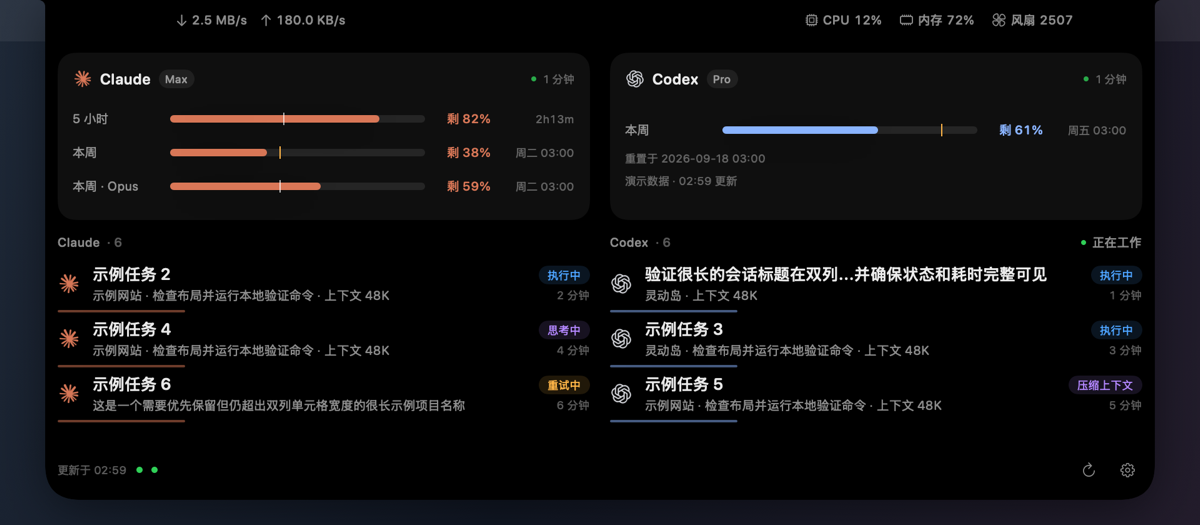
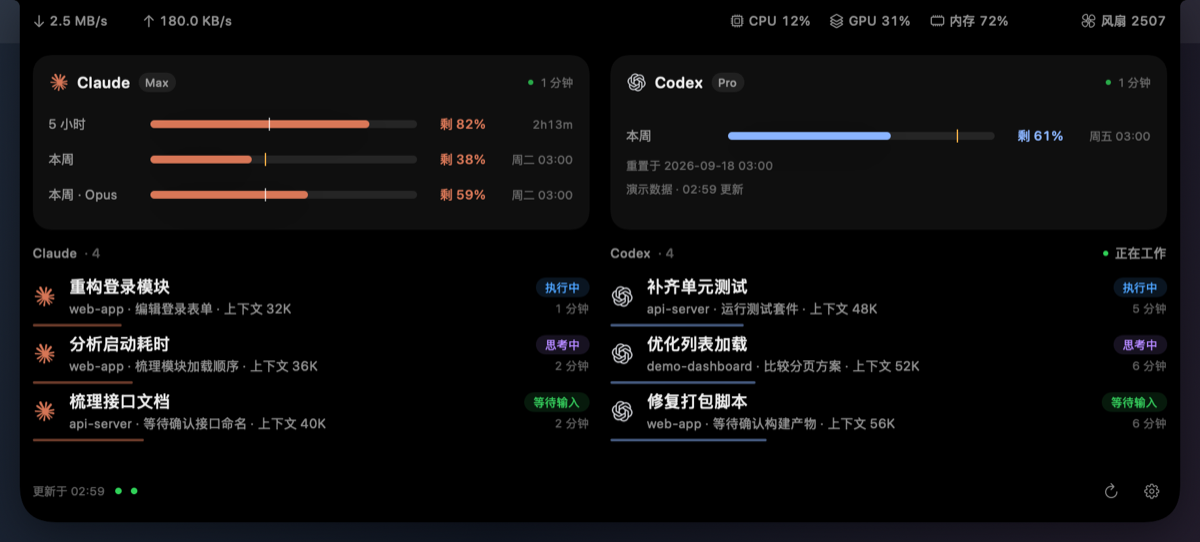
v0.2.0：版本号、README 与演示截图更新
- 版本号 0.2.0（构建号 2）
- README（中/英）补充：GPU 显示与顶部指标带排版；数据源自动检测与开关；
  只开一家与系统监控模式；第三方模型后端识别；Claude Code / Codex 改为可选
- 数据与隐私补充：GPU 只读读取、检测只检查目录是否存在、第三方判定仅保存模型名、
  自定义命令的存储与网络说明
- 新增 README 专用快照场景 readme-expanded、readme-custom（虚构数据）；
  更新 expanded.png，新增 custom-sources.png
- 截图说明不再引用未随仓库发布的工具路径

diff --git a/Sources/AgentIsland/App/SnapshotExporter.swift b/Sources/AgentIsland/App/SnapshotExporter.swift
@@ -111,6 +111,7 @@ import IslandCore
                 }
             }
         }
+        for name in readmeScenarios { cases.append((name, .idle, .expanded, true)) }
         var files: [String: Data] = [:]
         for (name, scenario, mode, hasNotch) in cases {
             let store = IslandStore.mock(scenario, now: now)
@@ -132,6 +133,7 @@ import IslandCore
                 }
             }
             if name.hasPrefix("custom-") { configureCustomSources(store, scenario: name) }
+            if readmeScenarios.contains(name) { configureReadme(store, scenario: name) }
             switch name {
             case "expanded-system-cpu-warning", "no-notch-system-cpu-warning":
                 store.systemMetrics.cpu = .init(percent: 85, sampleIntervalMs: 1000)
@@ -362,6 +364,58 @@ import IslandCore
         }
         guard let data else { throw ExportError.renderFailed("settings") }
         return data
+    }
+
+    static let readmeScenarios = ["readme-expanded", "readme-custom"]
+
+    /// README-only fixtures: no services, settings, commands, or host data are accessed here.
+    static func configureReadme(_ store: IslandStore, scenario: String) {
+        guard readmeScenarios.contains(scenario) else { return }
+        store.sessionListLayout = .automatic
+        store.systemMetrics = SystemMetrics(
+            network: .init(downBytesPerSec: 2.5 * 1024 * 1024, upBytesPerSec: 180 * 1024, interfaces: ["en0"]),
+            fan: .init(fans: [.init(index: 0, rpm: 2507, minRPM: 2317, maxRPM: 6550)]),
+            memory: .init(usedBytes: 72 * 1024, totalBytes: 100 * 1024),
+            cpu: .init(percent: 12, sampleIntervalMs: 1000), gpu: .init(percent: 31))
+        if scenario == "readme-custom" {
+            // Commands are inert metadata; both quota snapshots are assigned directly in memory.
+            let balance = CustomSource(id: .init(rawValue: "custom-readme-balance"), name: "API 余额",
+                                       command: "echo 62", colorIndex: 1)
+            let team = CustomSource(id: .init(rawValue: "custom-readme-team"), name: "团队额度",
+                                    command: "echo 62", colorIndex: 2)
+            store.customSources = [balance, team]
+            store.quotas[balance.id] = .init(agent: balance.id, windows: [
+                .init(id: "balance", kind: .other, label: "余额", usedPercent: 0, valueText: "¥128.50")
+            ], source: .customCommand, fetchedAt: now.addingTimeInterval(-60))
+            store.quotas[team.id] = .init(agent: team.id, plan: "Team", windows: [
+                .init(id: "monthly", kind: .other, label: "本月", usedPercent: 38, periodSeconds: 2_592_000)
+            ], source: .customCommand, fetchedAt: now.addingTimeInterval(-60))
+            store.health[balance.id] = .ok
+            store.health[team.id] = .ok
+        } else {
+            // Eight non-ended sessions select the automatic 900 pt layout on the synthetic notch display.
+            // Each column's first three rows cover running, thinking, and waiting for input.
+            let examples: [(ProviderID, String, String, SessionPhase, String)] = [
+                (.claude, "重构登录模块", "web-app", .runningTool, "编辑登录表单"),
+                (.claude, "分析启动耗时", "web-app", .thinking, "梳理模块加载顺序"),
+                (.claude, "梳理接口文档", "api-server", .waitingInput, "等待确认接口命名"),
+                (.claude, "检查表单校验", "demo-dashboard", .waitingInput, "等待确认校验提示"),
+                (.codex, "补齐单元测试", "api-server", .runningTool, "运行测试套件"),
+                (.codex, "优化列表加载", "demo-dashboard", .thinking, "比较分页方案"),
+                (.codex, "修复打包脚本", "web-app", .waitingInput, "等待确认构建产物"),
+                (.codex, "整理帮助页面", "docs-site", .waitingInput, "等待确认页面目录")
+            ]
+            store.sessions = examples.enumerated().map { index, example in
+                let (agent, title, project, phase, activity) = example
+                return AgentSession(agent: agent, sessionId: "readme-\(index)", title: title,
+                                    projectName: project, phase: phase, activity: activity,
+                                    context: .init(usedTokens: 32_000 + index * 4_000, windowTokens: 200_000),
+                                    turnStartedAt: now.addingTimeInterval(-Double((index + 1) * 60)),
+                                    turnEndedAt: phase == .waitingInput ? now.addingTimeInterval(-30) : nil,
+                                    toolCallsThisTurn: index + 2, lastActivityAt: now.addingTimeInterval(-Double(index * 10)),
+                                    isAlive: true)
+            }
+        }
     }
 
     static func configureCustomSources(_ store: IslandStore, scenario: String) {

diff --git a/README.en.md b/README.en.md
@@ -9,7 +9,7 @@ See remaining quota at a glance. Working sessions get rotating icons and activit
 All screenshots use built-in mock data, including plans, usage, sessions and system metrics.
 Dates use a fixed example timestamp displayed in UTC. EXIF/XMP and other ancillary metadata have been removed.
 
-**Collapsed** — Claude on the left, Codex on the right.
+**Collapsed** — with both sources enabled, Claude on the left and Codex on the right.
 
 ![Collapsed](docs/images/collapsed.png)
 
@@ -17,9 +17,18 @@ Dates use a fixed example timestamp displayed in UTC. EXIF/XMP and other ancilla
 
 ![Active](docs/images/active.png)
 
-**Expanded** — system metrics, two quota cards, and sessions grouped by agent in two columns: Claude on the left, Codex on the right.
+**Expanded** — network, CPU, GPU, memory and fan metrics beside the notch, above two quota cards. Eight fictional sessions automatically form agent columns: Claude on the left, Codex on the right, with running, thinking and waiting-for-input states.
 
 ![Expanded](docs/images/expanded.png)
+
+## Features
+
+- View remaining quota and reset times, working-session indicators, current actions and context usage. Hover or click to expand; completed sessions never open the panel automatically.
+- Expanded system metrics include network, CPU, memory, and GPU usage and fan speed where available. The top band uses the full available wings beside a notch, aligned with the cards; without a notch, metrics are evenly distributed across one row. Narrow layouts simplify automatically.
+- Enable sources independently. Automatic detection shows Claude Code / Codex by default once used, based on their data directories; settings also allow manual overrides.
+- With one source enabled, both collapsed wings prioritize its different quota periods; when fewer than two windows are available, the other wing shows CPU. With neither provider nor custom sources, use system monitor mode: CPU and memory in the collapsed wings.
+- Claude Code with a third-party backend such as GLM or Kimi shows sessions only, without official quota or login prompts, when Claude credentials are absent and the last observed model name does not start with `claude-`.
+- Connect other tools' quotas or balances through [custom data sources](#custom-data-sources).
 
 Sessions are sorted by status: running tools first, then thinking (including compacting and retrying), followed by waiting for permission, waiting for input, error, idle, and ended. Within each priority tier, sessions from the same project stay together, with project groups ordered by their latest activity and unnamed projects last. Sessions within each group use newest activity first. Each agent is sorted independently in two-column mode; single-column mode sorts the merged list.
 
@@ -29,26 +38,38 @@ Settings → Session list → Layout (设置 → 会话列表 → 布局) defaul
 
 - macOS 14 or later, Apple Silicon or Intel.
 - Best on a MacBook with a notch; other displays use a capsule at the top.
-- Install and sign in to Claude Code / Codex to see the corresponding data.
+- Claude Code and Codex are optional. Install and use a provider to get its data; official quotas require signing in. Without either, the app works as a system monitor. Connect other tools through [custom data sources](#custom-data-sources).
 - Swift 6 and Command Line Tools to build. No Xcode or third-party dependencies required.
 
 ## Privacy
 
-**No data collection, telemetry or session-content uploads.** Local session files are read to display information on your Mac:
+**No data collection, telemetry or session-content uploads.** Local session files are read for enabled built-in providers to display information on your Mac:
 
 - Claude session metadata, main-session transcripts and desktop session titles.
 - Codex's SQLite session index (read-only) and rollout logs as a fallback.
 - Claude OAuth credentials, read at runtime through the system keychain, with `~/.claude/.credentials.json` as a compatibility fallback. Tokens stay in memory and are never logged or exported. AgentIsland does not read Claude session key files or `~/.codex/auth.json`.
 
-AgentIsland's own HTTP client only contacts the Claude usage endpoint at `api.anthropic.com`; it does not follow redirects or retain HTTP caches or cookies. Codex quota comes from the official `codex app-server` subprocess. Official subprocesses may contact their own services, including during Claude token renewal described below.
+Automatic detection of built-in sources only checks whether `~/.claude` and `~/.codex` directories exist, not whether a CLI or desktop app is installed. Third-party backend detection separately checks for the presence of Claude credentials without reading their contents and uses the last observed model name. Only that model name, not the session content used to identify it, is saved in AgentIsland's own UserDefaults.
+
+GPU usage is read through IOKit from IOAccelerator system statistics, without administrator privileges or extra permissions. The metric is hidden when the device provides no reading.
+
+For official Claude quotas, a web or desktop login may not grant Claude Code OAuth access; run `claude auth login` in Terminal. Once a third-party backend is detected, AgentIsland skips official Claude quota queries and their renewal flow.
+
+AgentIsland's own HTTP client only contacts the Claude usage endpoint at `api.anthropic.com`; it does not follow redirects or retain HTTP caches or cookies. Codex quota comes from the official `codex app-server` subprocess. Official subprocesses may contact their own services, including during Claude token renewal described below. Custom commands may also access the network according to your script; the HTTP restriction does not apply to the entire subprocess tree.
 
 AgentIsland itself reads provider data and settings without modifying them, installing hooks or changing statusLine. Its settings and connection diagnostics remain in its own local storage. Official CLI renewal may update official credentials. Diagnostic exports such as `--dump sessions` contain titles and project paths; redact them before sharing.
+
+Custom commands are stored in plain text in app settings; output and parsed results stay in memory. Custom entries in `--dump providers` exclude commands and output; `--dump quota` runs enabled custom sources and exports parsed quotas. See the next section for details.
 
 Brand icons are loaded from locally installed Claude / ChatGPT apps, with drawn fallbacks. Third-party icon files are not bundled or distributed as standalone assets; screenshots illustrate the interface.
 
 ## Custom data sources
 
 Open Settings → Custom data sources (自定义数据源) → Add (添加), enter a name and command, choose a 1 / 5 / 15 / 30 minute interval (default: 5), and use Test run (测试运行) before saving. This feature requires scripting knowledge; no additional services are built in. Optionally choose a local `.app` icon and badge color. Enable, edit, delete, or reorder providers with ↑ / ↓. The collapsed wings show the first two enabled quota providers; expanded quota cards use two columns.
+
+This mock-data example shows Claude, Codex, “API 余额” (API balance) and “团队额度” (team quota) in a 2×2 grid, demonstrating a text balance and a monthly remaining percentage.
+
+![Custom data sources](docs/images/custom-sources.png)
 
 Commands run as the current user via `/bin/zsh -lc`, with the user home directory as the working directory. The login shell loads PATH from `.zprofile`; use absolute paths if a command cannot be found. Each source refreshes independently, including on launch, unlock, wake, and manual refresh. Lock and sleep pause execution. The same source never runs concurrently; at most three custom commands run at once, including test previews. Commands time out after 15 seconds: SIGTERM targets the entire process group, followed by SIGKILL after two seconds if needed. Disabling or deleting a source also terminates its group. Failures retain the last successful data and mark it stale.
 
@@ -65,7 +86,7 @@ Standard output may contain a single remaining-percentage number or full JSON:
 }
 ```
 
-`windows` accepts 1–4 entries; additional entries are ignored with a warning. Each window has a `label` and exactly one of `remainingPercent`, `usedPercent`, or `valueText`. Percentages must be finite and are clamped to 0–100; text is limited to 12 characters. Settings display warnings for missing labels, truncated text, and extra windows. Unknown fields are ignored. `plan`, `note`, ISO 8601 `resetsAt`, and positive `periodSeconds` are optional. The first window is a custom source's headline. When only one source is enabled, complete periods select the shortest and longest windows; otherwise the first two windows are used. Wing text truncates to the available width.
+`windows` accepts 1–4 entries; additional entries are ignored with a warning. Each window has a `label` and exactly one of `remainingPercent`, `usedPercent`, or `valueText`. Percentages must be finite and are clamped to 0–100; text is limited to 12 characters. Settings display warnings for missing labels, truncated text, and extra windows. Unknown fields are ignored. `plan`, `note`, ISO 8601 `resetsAt`, and positive `periodSeconds` are optional. The first window is a custom source's headline. When only one source is enabled, complete periods select the shortest and longest windows; otherwise the first two windows are used. With only one window, the other wing shows CPU. Wing text shrinks first, then hides its icon, and truncates only if necessary; it keeps neither partial decimal fractions nor separators before the ellipsis.
 
 Example 1 — a remaining percentage:
 
@@ -144,7 +165,7 @@ To start at login, right-click the island and open Settings after installing in 
 - Quota polling and system-metric sampling pause while locked or asleep. While the process can still run, session scans are limited to once per provider every 30 seconds; unlock or wake triggers an immediate refresh.
 - **Claude token renewal starts the official CLI in a hidden pseudoterminal.** Access tokens typically expire after about eight hours, and ordinary non-interactive queries cannot trigger renewal. When renewal is needed, AgentIsland starts one interactive CLI session, waits for a ready prompt, sends the local `/usage` command to trigger official renewal, then exits. It sends no conversation prompt and uses no model quota. AgentIsland does not call the refresh endpoint or write keychain credentials itself; the official CLI may use the network and update its own credentials.
 - Renewal uses a dedicated AgentIsland directory with Chrome prompts and Remote Control disabled by launch arguments. Setup, trust and login prompts stop the attempt and require you to finish in Terminal; the app never accepts them for you. CLI changes or expired login sessions can still require manual action.
-- Provider formats may change. Fan metrics are hidden on unsupported devices. Both processor architectures are build targets, but not every hardware combination has been tested.
+- Provider formats may change. GPU and fan metrics are hidden on unsupported devices. Both processor architectures are build targets, but not every hardware combination has been tested.
 
 ## Acknowledgments and license
 

diff --git a/docs/images/README.md b/docs/images/README.md
@@ -1,32 +1,24 @@
 # 演示截图
 
-三张 PNG 均由 App 的离屏 `--snapshot` 路径生成，再用系统 `sips` 裁剪。该路径固定调用 `IslandStore.mock`，额度、套餐、标题、系统指标、背景与几何均为演示数据，不读取真实账号或会话。`active.png` 是动画的静态帧。
+所有截图均由 App 的离屏 `--snapshot` 路径生成，只使用内置的演示数据：额度、套餐、会话标题、项目名、自定义数据源与系统指标均为虚构，不读取真实账号、会话或设置，也不执行任何用户命令。`active.png` 是动画的静态帧。
 
-| 文件 | 场景 | 输出尺寸 |
-|---|---|---|
-| `collapsed.png` | idle / collapsed，两家剩余额度 | 800 × 140 |
-| `active.png` | busy / active，双侧图标与活动条 | 800 × 140 |
-| `expanded.png` | sessions-grid-12 / expanded，指标、额度卡、12 个假会话按家分列（左 Claude 6 个、右 Codex 6 个；首屏各显示 3 个，其余一起滚动） | 1200 × 525 |
+| 文件 | 快照场景 | 内容 | 输出尺寸 |
+|---|---|---|---|
+| `collapsed.png` | `collapsed-idle` | 收起态，两家剩余额度 | 800 × 140 |
+| `active.png` | `collapsed-both-active` | 活动态，双侧旋转图标与活动条 | 800 × 140 |
+| `expanded.png` | `readme-expanded` | 展开态：含 GPU 的顶部指标带、两张额度卡、8 个虚构会话按家分列 | 1200 × 542 |
+| `custom-sources.png` | `readme-custom` | 展开态：Claude、Codex 与 2 个自定义数据源组成 2×2 额度卡 | 1000 × 728 |
 
-在项目根目录复现：
-
-```sh
-scripts/snapshot.sh out/snapshots/m6
-mkdir -p docs/images
-sips --cropToHeightWidth 140 800 --cropOffset 0 320 out/snapshots/m6/collapsed-idle.png --out docs/images/collapsed.png
-sips --cropToHeightWidth 140 800 --cropOffset 0 320 out/snapshots/m6/collapsed-both-active.png --out docs/images/active.png
-swift -module-cache-path .build/module-cache tools/scrub-png.swift docs/images/collapsed.png docs/images/active.png
-```
-
-M8 的按家分列展开态单独生成，不改动收起态与活动态图片：
+生成方式：
 
 ```sh
-scripts/snapshot.sh out/snapshots/m8
-sips --cropToHeightWidth 840 1920 --cropOffset 0 60 out/snapshots/m8/sessions-grid-12.png --out docs/images/expanded.png
-sips --resampleWidth 1200 docs/images/expanded.png
-swift -module-cache-path .build/module-cache tools/scrub-png.swift docs/images/expanded.png
+scripts/snapshot.sh out/snapshots
+sips --cropToHeightWidth 140 800 --cropOffset 0 320 out/snapshots/collapsed-idle.png --out docs/images/collapsed.png
+sips --cropToHeightWidth 140 800 --cropOffset 0 320 out/snapshots/collapsed-both-active.png --out docs/images/active.png
+sips --cropToHeightWidth 830 1836 --cropOffset 0 102 out/snapshots/readme-expanded.png --out /tmp/expanded.png
+sips --resampleWidth 1200 /tmp/expanded.png --out docs/images/expanded.png
+sips --cropToHeightWidth 900 1236 --cropOffset 0 102 out/snapshots/readme-custom.png --out /tmp/custom.png
+sips --resampleWidth 1000 /tmp/custom.png --out docs/images/custom-sources.png
 ```
 
-源快照位于被忽略的 `out/`；本目录中的三张小图供 README 引用，应与文档一起纳入版本控制。`scripts/snapshot.sh` 固定以 `TZ=UTC` 启动离屏进程；日期来自固定 mock 时间戳，并以 UTC 显示，不暴露运行机器的本地时区。直接调用 `--snapshot` 时也应加 `TZ=UTC`。额度与基础会话对应 `MockData.swift`，按家分列的会话来自 `SnapshotExporter.sessionGridFixtures` 的手写样例，系统指标与屏幕几何对应 `SnapshotExporter.swift`，不代表作者的账号、设备或使用习惯。
-
-最后一步按 PNG 区块白名单保留像素、透明度和标准色彩信息，移除 EXIF、XMP、文本、时间等附加元数据，像素数据不重编码。`sips -g all` 不会列出所有 XMP 字段，不能单独作为元数据清理的依据。
+提交前已清除 PNG 中的附加元数据（如创建软件、拍摄设备等信息）。
